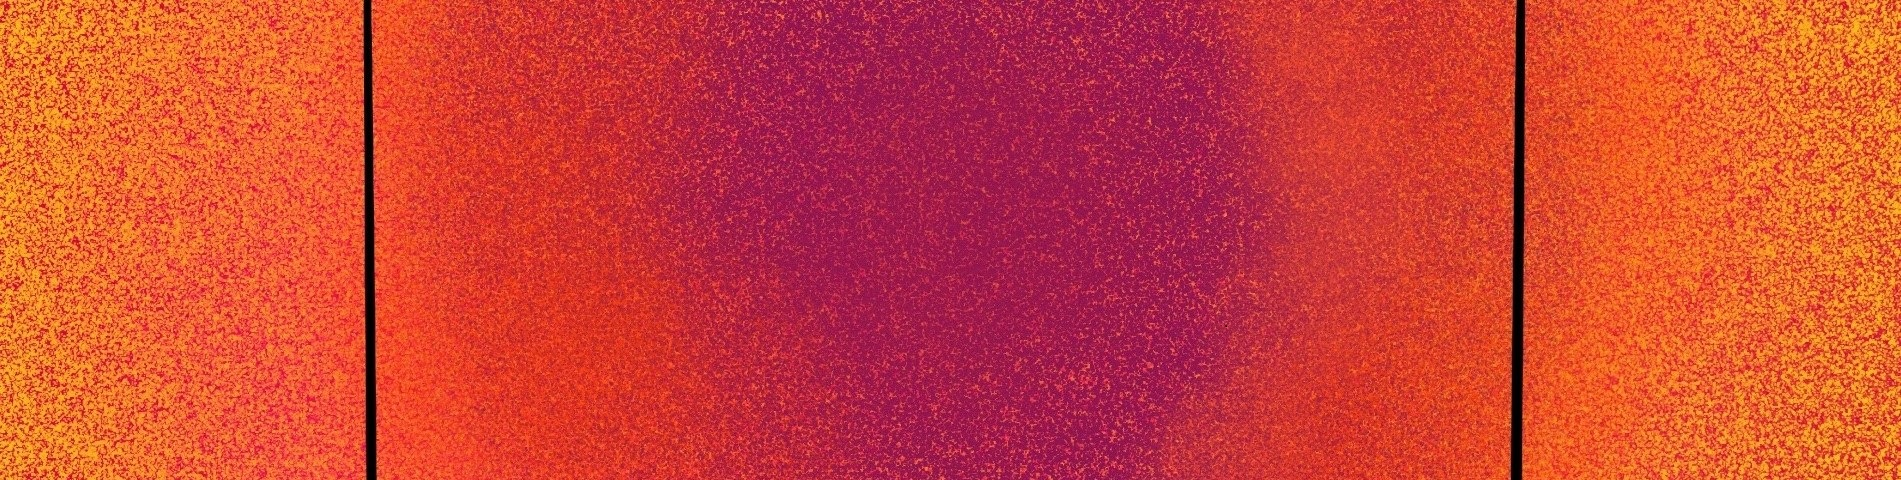
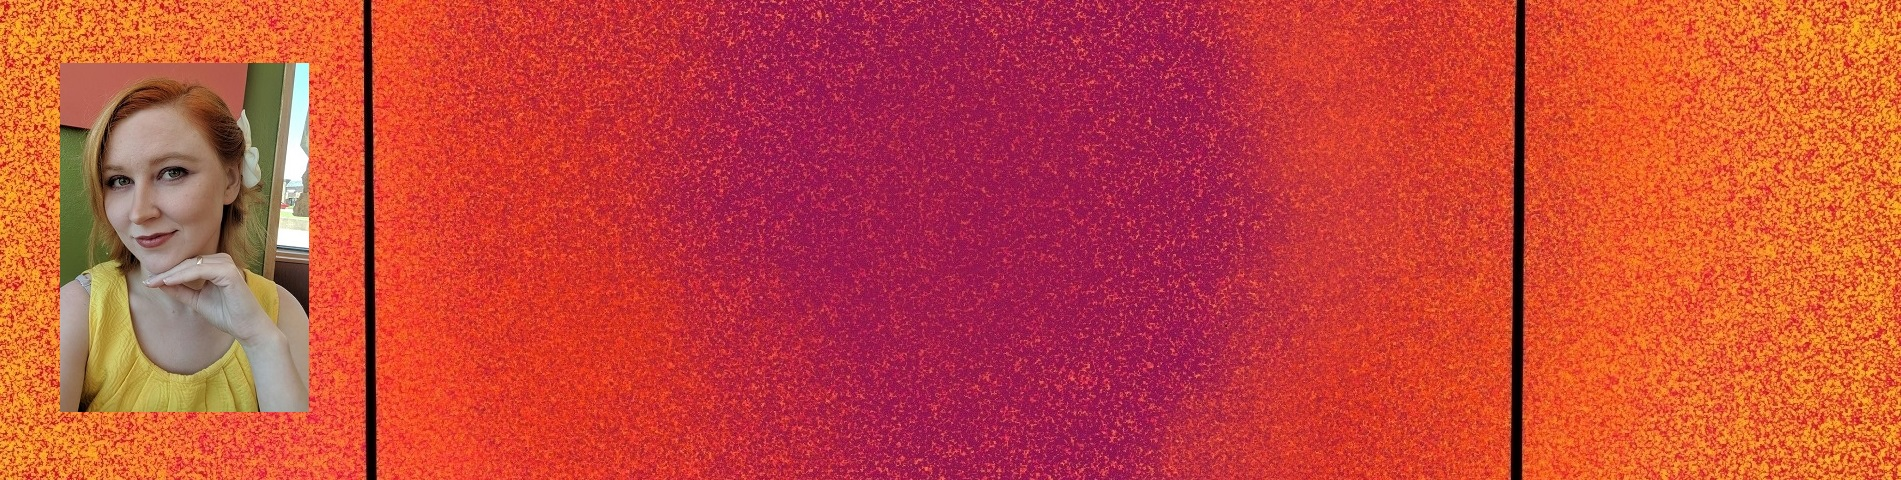
Added my face

Changed region(s): [[0.031, 0.125, 0.1862, 0.875]]

diff --git a/index.html b/index.html
@@ -31,10 +31,9 @@
 				<header>
 					<h2>About Me</h2>
 				</header>
-				<div class = Makingitwork><p>Hello, Thank you for taking the time to look at my portfolio!<br>
+				<p>Hello, Thank you for taking the time to look at my portfolio!<br>
 					I am currently a Lambda student, studying full stack web development.<br>
 					I also have experience in graphic design and do my own artwork.</p>
-				<a href="#" class="imagefit"><img src="images/MyFace.jpg" alt="" /></a></div>
 
 				<footer>
 					<a href="#first" class="button style2 scrolly">Continue</a>

diff --git a/assets/css/main.css b/assets/css/main.css
@@ -2644,13 +2644,3 @@ input, select, textarea {
 			}
 
 	}
-	.Makingitwork{
-		display: flex;
-		flex-direction: row-reverse;
-		justify-content: space-around;
-	}
-	.imagefit{
-		display:flex;
-		width: 250px;
-		height: 350px;
-	}
